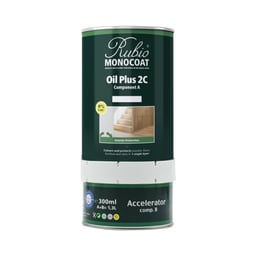
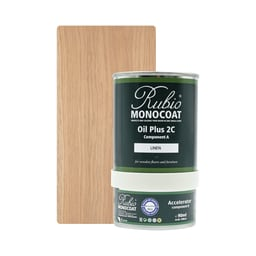
A shot of the oil with the wood it leaves behind
The can alone at 56px was a green cylinder. This one has the oiled board
beside it, so the row shows the result as well as the tin, which is the thing
worth seeing at that size.

Squared on its longest side rather than its height, since the pair is wider
than the can was, and the volume follows the tin: 390 ml.

diff --git a/demo/example/shop/product/index.html b/demo/example/shop/product/index.html
@@ -772,7 +772,7 @@
                         </picture>
                       </span>
                       <span class="item__content">
-                        <span class="item__title">Oil Plus 2C, 1,3 L</span>
+                        <span class="item__title">Oil Plus 2C, 390 ml</span>
                         <span class="item__description pdp-care__meta"
                           >Rubio Monocoat &middot; 899 kr</span
                         >
